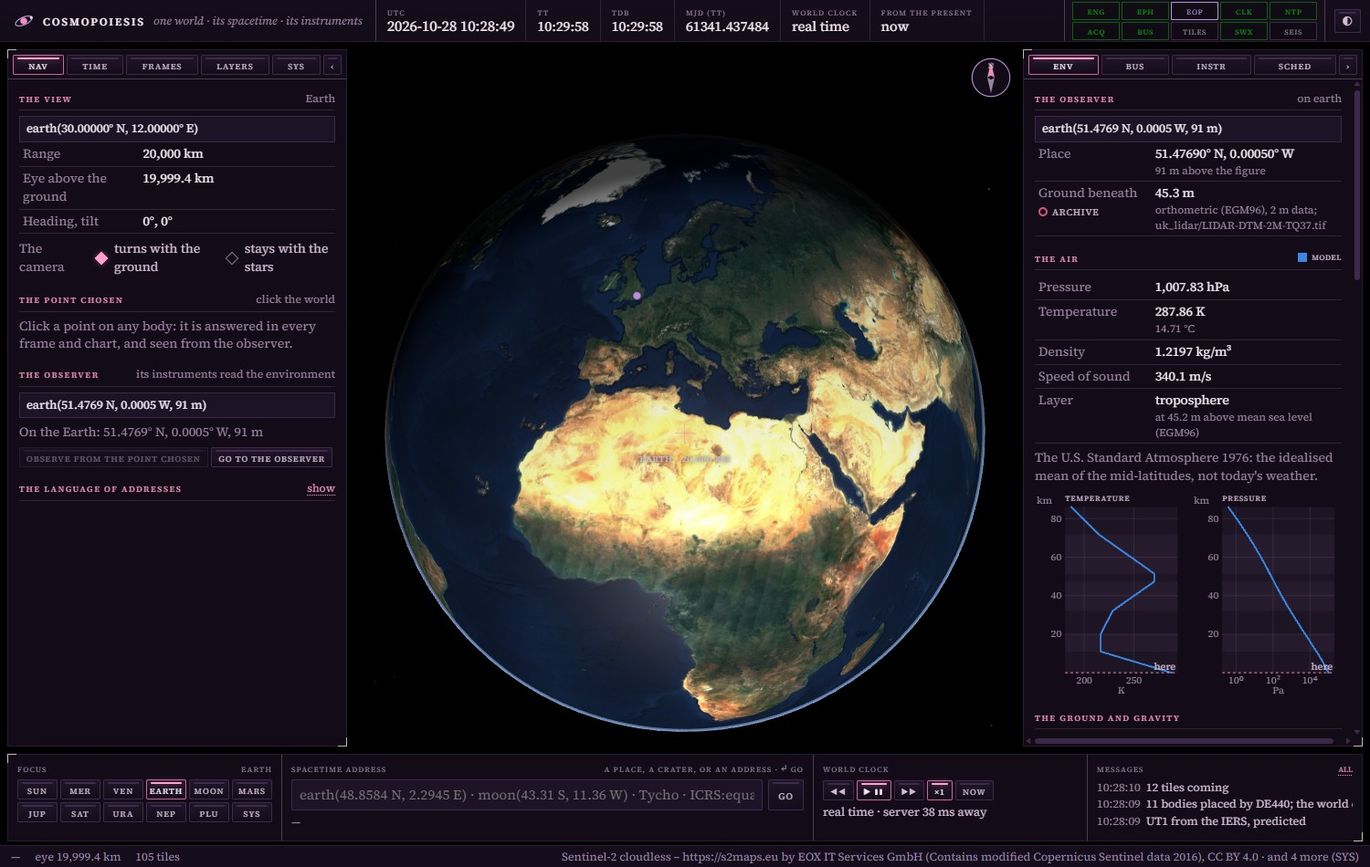
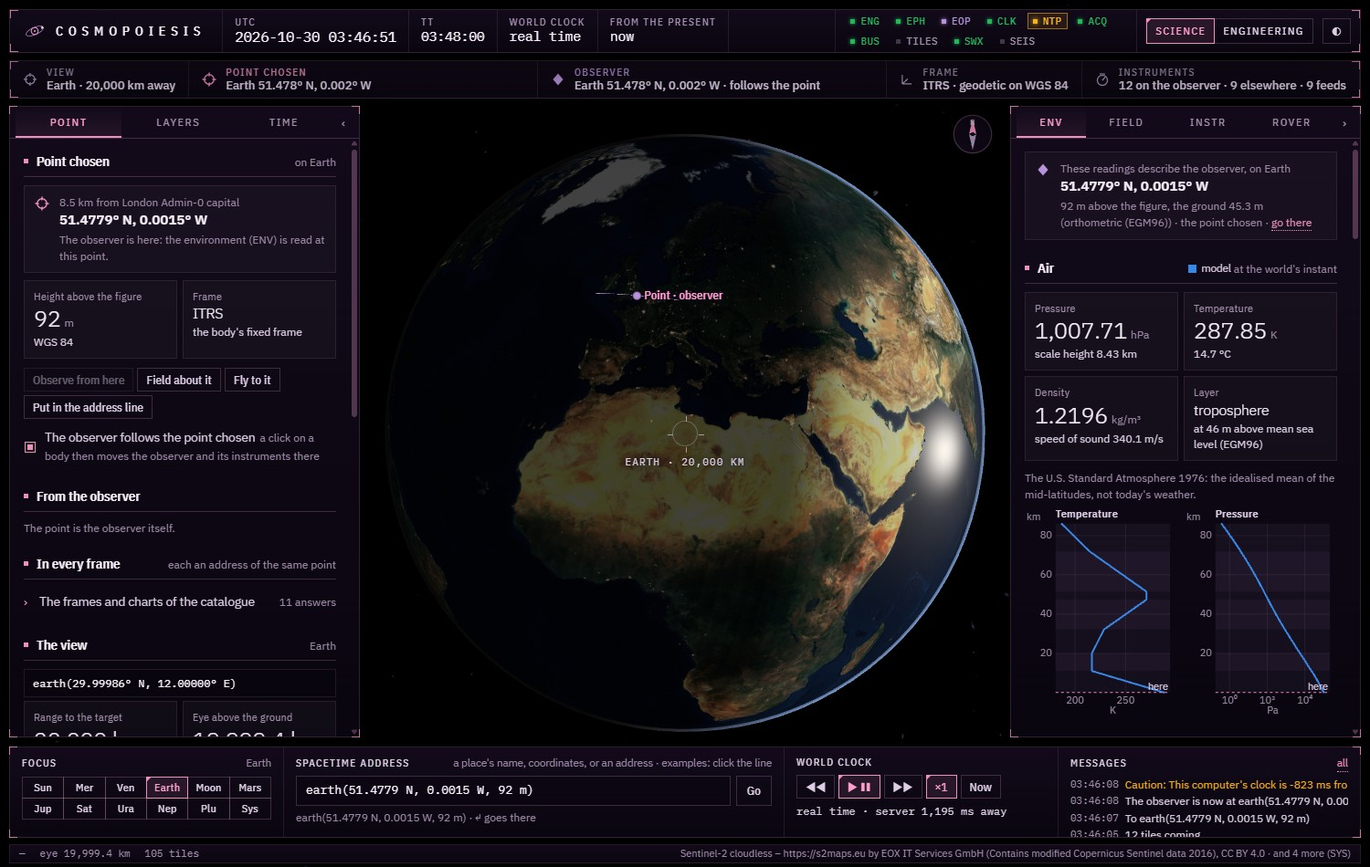
Cosmopoiesis in the gallery, and a flight to where one already looks
The gallery's Cosmopoiesis section in four parts, twenty-two pictures on the precision console: one world, its addresses and its instruments; fields drawn in the world and read about a point (the Earth's field lines, the Moon's crust and its radial part, the air over Fuji, the interior beneath Sendai); the ground, the sea and what lies beneath (the provenance of the Moon's heights at Hadley Rille, the sea floor off Japan, the sea's temperature, the Earth beneath Japan and the Andes); satellites and the rover's survey. The globe's controls: a flight's arc as atan2 of the cross and dot products, so that a flight to the point in view no longer gives a NaN camera; checked in the visualization suite.

diff --git a/visualization/js/globe/controls.js b/visualization/js/globe/controls.js
@@ -121,8 +121,15 @@ export class GlobeControls {
     const to = { ...from, ...target };
     const a = cartesian(this.fig, from.lon, from.lat, 0), b = cartesian(this.fig, to.lon, to.lat, 0);
     const ua = unit(a), ub = unit(b);
-    const angle = Math.acos(clamp(ua[0] * ub[0] + ua[1] * ub[1] + ua[2] * ub[2], -1, 1));
-    const axis = angle > 1e-9 ? unit([ua[1] * ub[2] - ua[2] * ub[1], ua[2] * ub[0] - ua[0] * ub[2], ua[0] * ub[1] - ua[1] * ub[0]]) : [0, 0, 1];
+    // The arc between them as atan2(|a × b|, a · b), exact for small arcs; a flight to where one is
+    // already looking has no axis (acos of a rounded dot product gave an arc of 1.5e-8 rad about the
+    // normalised zero cross product: a NaN camera).
+    const c = [ua[1] * ub[2] - ua[2] * ub[1], ua[2] * ub[0] - ua[0] * ub[2], ua[0] * ub[1] - ua[1] * ub[0]];
+    const sinAngle = Math.hypot(c[0], c[1], c[2]), cosAngle = ua[0] * ub[0] + ua[1] * ub[1] + ua[2] * ub[2];
+    const angle = Math.atan2(sinAngle, cosAngle);
+    const axis = sinAngle > 1e-15 ? unit(c)
+      : cosAngle < 0 ? unit(Math.abs(ua[2]) < 0.9 ? [-ua[1], ua[0], 0] : [0, -ua[2], ua[1]])   // antipodes: any axis across
+        : [0, 0, 1];
     // Rise by the ground covered, so that the flight sees where it goes.
     const peak = Math.max(from.range, to.range, angle * this.fig.a * 1.1);
     let dh = to.heading - from.heading;

diff --git a/docs/gallery.md b/docs/gallery.md
@@ -2,7 +2,7 @@
 
 *Status: draft, 2026-10-28.*
 
-These are screenshots of the infrastructure's applications, the three atlases taken on 22 October 2026 from their local servers with the data of that day, the Spiking Simulator and the Complex Atlas on 23 October, the History Complex, the Genome Workbench and the Economy Atlas on 24 October, and Cosmopoiesis on 28 and 30 October.
+These are screenshots of the infrastructure's applications, the three atlases taken on 22 October 2026 from their local servers with the data of that day, the Spiking Simulator and the Complex Atlas on 23 October, the History Complex, the Genome Workbench and the Economy Atlas on 24 October, and Cosmopoiesis on 30 October.
 
 - All are web applications without a build step.
 - Their science is the provisional JavaScript of the domains they draw on, tested against published references and closed-form answers in 422 checks, and the C++ of the foundations and of the metrology, geodesy, astronomy, geophysics, meteorology, navigation, neuroscience, history, genomics, evolution and economics domains, checked the same way.
@@ -466,16 +466,20 @@ Value carried between places and through time, through the application's C++ eng
 
 ## 9. Cosmopoiesis
 
-The Solar System as one world, with its addresses, its instruments and its fields. It runs through the work's C++ engine on the domains of time, the Earth and the sky, planetary science, robotics and the solid Earth, and on physis, tyche and calx ([ADR 0049](../development/decisions/0049-the-spacetime-of-the-earth-and-the-moon.md), [ADR 0050](../development/decisions/0050-instruments-and-their-acquisition.md), [ADR 0052](../development/decisions/0052-fields-known-in-part.md) to [ADR 0055](../development/decisions/0055-the-earth-beneath.md); the work's [decisions 0002–0010](../applications/cosmopoiesis-lab/development/decisions/) and [formalism](../applications/cosmopoiesis-lab/docs/formalism.md)). Its console is in pink and purple, drawn as a precision instrument (its decision 0009), by night and by day.
+The Solar System as one world, with its addresses, its instruments, its fields and what lies beneath its ground and its seas. It runs through the work's C++ engine on the domains of time, the Earth and the sky, planetary science, robotics and the solid Earth, and on physis, tyche and calx ([ADR 0049](../development/decisions/0049-the-spacetime-of-the-earth-and-the-moon.md), [ADR 0050](../development/decisions/0050-instruments-and-their-acquisition.md), [ADR 0052](../development/decisions/0052-fields-known-in-part.md) to [ADR 0055](../development/decisions/0055-the-earth-beneath.md); the work's [decisions 0002–0010](../applications/cosmopoiesis-lab/development/decisions/) and [formalism](../applications/cosmopoiesis-lab/docs/formalism.md)). Its console is in pink and purple, drawn as a precision instrument (its decision 0009), by night and by day.
 
 - The bodies are placed and turned by JPL's DE440, the IAU's rotation models, IAU 2006/2000A and the IERS's Earth orientation; the satellites by SGP4 on CelesTrak's elements.
-- The instant is the present. The first two pictures were taken on 28 October 2026, between 10:28 and 10:30 UTC, before the console was redrawn; the others on 30 October, between 00:32 and 02:00 UTC, on the precision console. The readings of space weather are SWPC's of that hour, observed, and the others are the engine's models; each is marked by its provenance.
+- The instant is the present, 30 October 2026, between 00:32 and 04:42 UTC. The readings of space weather are SWPC's of that hour, observed, and the others are the engine's models; each is marked by its provenance.
 - Every number in the captions is the engine's own, or a feed's.
+
+### 9.1 One World, Its Addresses and Its Instruments
+
+The world at the present from Greenwich to Saturn, any point written in one line and answered in every frame, and the machinery beneath: the catalogue of frames, and the schedule of the instruments.
 
 <table>
 <tr>
-<td width="50%" valign="top"><a href="../assets/gallery/cosmo-01-earth-console.jpg"><img src="../assets/gallery/cosmo-01-earth-console.jpg" alt="The console over the Earth by night: clocks and lamps across the top, the view and the observer on the left, the observer's environment on the right"></a><br><b>The console over the Earth, by night</b>. Across the top run the clocks (UTC, TT, TDB, MJD, the world clock's rate, its distance from the present) and the lamps of the engine, the ephemeris, Earth orientation, the clock, NTP, acquisition, the bus, the tiles, space weather and seismicity, each lit in one of four states with a word. On the left, the view is 20,000 km above 30° N, 12° E, and the observer is at Greenwich, 91 m above WGS 84. On the right, the ground beneath it lies 45.3 m above mean sea level, from the UK's 2 m LIDAR (an archive's reading, the hollow mark). The air there is the 1976 standard atmosphere's at 45.2 m above the geoid: 1,007.83 hPa, 287.86 K, 1.2197 kg/m³, sound at 340.1 m/s, with the profiles of temperature and pressure to 86 km and the observer's height marked.</td>
-<td width="50%" valign="top"><a href="../assets/gallery/cosmo-02-time-and-environment.jpg"><img src="../assets/gallery/cosmo-02-time-and-environment.jpg" alt="The instant in eight time scales on the left; the sky above Greenwich with the GPS and Galileo satellites, and space weather, on the right"></a><br><b>The instant and the sky</b>. The instant is 10:29:03.414 UTC in eight scales. UT1 is 52.1 ms behind (the IERS's Bulletin A, predicted), TT 69.184 s ahead, TDB 1.509 ms behind TT, and ΔT is 69.2361 s. Above Greenwich the Sun stands at 23.31°, azimuth 160.14°, its disc wholly seen: 1,378.6 W/m² across its beam and 545.6 W/m² on the level, above the air, at 0.993586 au. With it are Venus, Mars, Jupiter and the GPS and Galileo satellites above the horizon. Beneath is space weather as observed (rose), each reading on a gauge with its scale's thresholds: the solar wind at L1 at 381 km/s and 4.4 cm⁻³ and the interplanetary field's B<sub>z</sub> +5.14 nT of |B| 6.92 nT, nine minutes before, and the planetary K index 2.33, quiet, of four and a half hours before.</td>
+<td width="50%" valign="top"><a href="../assets/gallery/cosmo-01-earth-console.jpg"><img src="../assets/gallery/cosmo-01-earth-console.jpg" alt="The console over the Earth by night, dawn reaching Arabia: clocks and lamps across the top, the context bar beneath, the point chosen on the left and the observer's air on the right"></a><br><b>The console over the Earth, by night</b>. Across the top run the clocks and the engine's lamps. NTP's lamp is amber: this computer's clock is 0.8 s behind UTC, and the console says so. Beneath them, the context bar keeps five things apart: what is looked at, the Earth from 20,000 km; the point chosen; the observer, which follows it; the frame; and where the instruments are mounted, 12 on the observer and 9 elsewhere, with 9 feeds. The point is Greenwich, 92 m above WGS 84, 8.5 km from London. The observer stands there on the ground, which is 45.3 m above mean sea level by the UK's 2 m LIDAR (an archive's reading, the hollow mark). Its air is the 1976 standard atmosphere's at 46 m above the geoid: 1,007.71 hPa, 287.85 K, 1.2196 kg/m³, and sound at 340.1 m/s. The profiles of temperature and pressure run to 86 km, the observer's height marked. Dawn is reaching Arabia.</td>
+<td width="50%" valign="top"><a href="../assets/gallery/cosmo-02-time-and-environment.jpg"><img src="../assets/gallery/cosmo-02-time-and-environment.jpg" alt="The instant in eight time scales on the left; the Sun below the horizon at Greenwich, the sky with the Moon, Mars, Saturn and the navigation satellites, and space weather, on the right"></a><br><b>The instant and the sky</b>. The instant is 03:47:03.890 UTC, in eight scales. UT1 is 53.3 ms behind (the IERS's Bulletin A, predicted). TAI is 37 s ahead, TT a further 32.184 s, and TDB 1.490 ms behind TT. The coordinate times TCG and TCB have run ahead of TT since 1977, by 1.1 s and 24.4 s. At Greenwich the Sun is 28.74° below the horizon, at azimuth 75.33°, and 0.993175 au away. Above the horizon are the Moon, Mars, Saturn and the GPS and Galileo satellites. Beneath is space weather as observed: the solar wind at L1 at 316 km/s with 2.1 cm⁻³.</td>
 </tr>
 <tr>
 <td width="50%" valign="top"><a href="../assets/gallery/cosmo-03-solar-system.jpg"><img src="../assets/gallery/cosmo-03-solar-system.jpg" alt="The Solar System 110 au across with the orbits of the planets and Pluto, the catalogue of frames on the left and the bus of readings on the right, on the engineering deck"></a><br><b>The Solar System, 110 au across</b>, on the engineering deck. Each orbit is one period of the body's own path in DE440. On the left is the catalogue of frames as one tree from the ICRS: the Earth's chain to the ITRS and TEME, the Moon's frames, each planet's centre and IAU frame. On the right is the bus, every stream of readings with its provenance and its age. The planetary K index is 0.67, quiet, three and a half hours old. The solar wind at L1 blows at 323 km/s with 1.3 cm⁻³, eight minutes old. GOES's X-rays are of class B2.5. Beneath them is an event that did not wait for a tick: an earthquake of magnitude 4.4 near Tambolaka, Indonesia, from the USGS.</td>
@@ -489,13 +493,52 @@ The Solar System as one world, with its addresses, its instruments and its field
 <td width="50%" valign="top"><a href="../assets/gallery/cosmo-07-address-from-fuji.jpg"><img src="../assets/gallery/cosmo-07-address-from-fuji.jpg" alt="An address stepped from the summit of Fuji, answered in geodetic, UTM, MGRS and celestial frames, the camera looking back at the mountain"></a><br><b>An address with a step</b>: <code>earth(35.3606 N, 138.7274 E, 3776 m)/aer(30°, 2°, 30 km)</code>, a point 30 km from the summit of Fuji at azimuth 30°, 2° up. The engine resolves it to 35.59433° N, 138.89269° E, 4,893.6 m above WGS 84. In UTM it is zone 54 N, 309,091.53 m east and 3,940,999.53 m north, and in MGRS 54SUE0909140999. It is answered in the GCRS, TEME and the ICRS too. The camera stands 48 km away and looks back south-west at the mountain, on Sentinel-2 cloudless and Terrarium's heights. The observer follows the point. Its air is the standard atmosphere's at 4,852 m above mean sea level: 551.22 hPa and 256.63 K. The ground beneath it lies 530.8 m above mean sea level.</td>
 <td width="50%" valign="top"><a href="../assets/gallery/cosmo-08-loops-and-schedule.jpg"><img src="../assets/gallery/cosmo-08-loops-and-schedule.jpg" alt="The catalogue's loops and their holonomies on the left; a simulation of each scheduling policy with a burst of events on the right"></a><br><b>The catalogue's loops, and the schedule</b>. A loop is two routes between two frames, and its holonomy is the motion once round it. It is the same whatever realisation of each frame is chosen. The CIO and equinox routes to the ITRS agree to 0.3235 mas. GMST 1982 departs from IAU 2006 by 59.7556 mas in TEME. The IAU's model of the Moon and DE440's frame differ by 10,972.3 mas (11.0″). On the right, the declared set is simulated with a burst of 200 events of 2 ms, released together and due within 50 ms. Its periodic load is 8.83% of one worker, feasible by EDF. With the burst, EDF leaves 130 of 238 jobs late, fixed priority 103, and fixed priority with aging, or plain order, 200. Four workers can do only 200 ms of work in 50 ms, so at least 100 of the burst's jobs are late under any policy. This is what a storm of events does without the server that holds it to 2 s in every 10.</td>
 </tr>
+</table>
+
+### 9.2 Fields, Drawn in the World and Read about a Point
+
+Every model of the world is a field by name, with its base and its provenance ([ADR 0053](../development/decisions/0053-fields-and-their-visual-expression.md)): drawn in the world as lines or maps, and read by any instrument over a cube about a point.
+
+<table>
 <tr>
-<td width="50%" valign="top"><a href="../assets/gallery/cosmo-09-satellites.jpg"><img src="../assets/gallery/cosmo-09-satellites.jpg" alt="The space stations, GPS and Galileo around the Earth 62,000 km out, with the readings of instruments mounted on the ISS"></a><br><b>Satellites</b>: the space stations, GPS and Galileo by SGP4, seen from 62,000 km over the day side of Asia and Australia. The stations are named beside their points. GPS's satellites, in orange, and Galileo's, in green, circle at some 20,000 and 23,000 km. On the left are the groups: 32 for Galileo, 32 for GPS and 16 for the stations, their elements fetched 45 hours before. On the right are the instruments mounted on the ISS itself, a family placed on a satellite by its NORAD number. The ISS is over 35.63° N, 86.04° E, 426.5 km up, in full sunlight (1,379.7 W/m²). Its magnetometer on WMM2025 reads 42,971 nT: 24,694 nT north, 414 nT east and 35,164 nT down.</td>
 <td width="50%" valign="top"><a href="../assets/gallery/cosmo-10-field-lines.jpg"><img src="../assets/gallery/cosmo-10-field-lines.jpg" alt="The Earth's magnetic field lines 110,000 km out, coloured by the field's strength, with the world's catalogue of fields on the left and the observer's magnetometer on the right"></a><br><b>The Earth's field lines</b> (decision 0007). There are 48 lines of the core's field, WMM2025 continued outward. Each is traced by RK4 from 100 km above the model's sphere, at ±30°, ±50° and ±65° of latitude, to the ground or to six Earth radii, and coloured by |B| on a logarithmic scale from 0.2 to 50 μT. The field is one of the world's fields, each with its base and provenance; on the left is their catalogue, each with its fibre, its representation and its base. On the right, the observer's magnetometer reads the same model where the observer stands, 4,894 m up near Fuji. |B| is 46,950 nT, changing by 31.1 nT a year: 30,134 nT north, −4,244 nT east and 35,752 nT down. The declination is −8.02° (± 0.32°, the model's error), and the inclination 49.6°. A compass there is reliable.</td>
+<td width="50%" valign="top"><a href="../assets/gallery/cosmo-11-moon-field.jpg"><img src="../assets/gallery/cosmo-11-moon-field.jpg" alt="The Moon's near side 6,500 km out with its crustal magnetic field in amber, the legend on the left and the magnetometer at Reiner Gamma on the right"></a><br><b>The Moon's crustal field</b> (decision 0005, <a href="../development/decisions/0052-fields-known-in-part.md">ADR 0052</a>). T2015_449's |B| at the surface is laid over the near side, from 1 to 100 nT on a logarithmic scale and clear below 1 nT, its magnetised crust in amber. The legend gives the law of the crust's spectrum, R<sub>n</sub> ∝ n<sup>2.04</sup> ρ<sup>2n</sup>, an effective depth of its sources of 6.6 km. The scales the model leaves unresolved are drawn from that law. The observer stands at Reiner Gamma, the brightest of the swirls. Its magnetometer reads 64.08 nT there: the crust's 65.43 nT and the solar wind's 2.59 nT, added as vectors. The solar wind's field was measured at L1 92 minutes before and carried to the Moon. The components are −47.3 nT north, −18.5 nT east and −39 nT down.</td>
 </tr>
 <tr>
-<td width="50%" valign="top"><a href="../assets/gallery/cosmo-11-moon-field.jpg"><img src="../assets/gallery/cosmo-11-moon-field.jpg" alt="The Moon's near side 6,500 km out with its crustal magnetic field in amber, the legend on the left and the magnetometer at Reiner Gamma on the right"></a><br><b>The Moon's crustal field</b> (decision 0005, <a href="../development/decisions/0052-fields-known-in-part.md">ADR 0052</a>). T2015_449's |B| at the surface is laid over the near side, from 1 to 100 nT on a logarithmic scale and clear below 1 nT, its magnetised crust in amber. The legend gives the law of the crust's spectrum, R<sub>n</sub> ∝ n<sup>2.04</sup> ρ<sup>2n</sup>, an effective depth of its sources of 6.6 km. The scales the model leaves unresolved are drawn from that law. The observer stands at Reiner Gamma, the brightest of the swirls. Its magnetometer reads 64.08 nT there: the crust's 65.43 nT and the solar wind's 2.59 nT, added as vectors. The solar wind's field was measured at L1 92 minutes before and carried to the Moon. The components are −47.3 nT north, −18.5 nT east and −39 nT down.</td>
+<td width="50%" valign="top"><a href="../assets/gallery/cosmo-15-moon-radial.jpg"><img src="../assets/gallery/cosmo-15-moon-radial.jpg" alt="The radial part of the Moon's crustal field around Reiner Gamma from 1,600 km, outward in amber and inward in violet, with the magnetometer's reading on the right"></a><br><b>The Moon's field, outward and inward</b> (decision 0005). The radial part B<sub>r</sub> of T2015_449 at the surface around Reiner Gamma, seen from 1,600 km, on a half-degree grid. The scale diverges about zero: amber where the field points outward, violet where it points inward. It is logarithmic in its size from 1 nT each way, to 100 nT. The crust's sources are patches of both signs, the remanence of fields long gone. At Reiner Gamma the magnetometer reads 69.24 nT. The crust gives 65.43 nT of it, and the solar wind's field, measured at L1 92 minutes before and carried to the Moon, gives 4.55 nT. Its down component is −40.8 nT: there the field points up, out of the ground.</td>
 <td width="50%" valign="top"><a href="../assets/gallery/cosmo-12-field-cube.jpg"><img src="../assets/gallery/cosmo-12-field-cube.jpg" alt="A cube of 100 km above Reiner Gamma filled with the magnetic field's strength, placed in the world and drawn in the FIELD page"></a><br><b>The field about a point</b> (decision 0006). The same magnetometer is read over a cube of 100 km above Reiner Gamma, in 13³ = 2,197 cells, and the cube is placed in the world. Each cell is a reading of T2015_449, with its unresolved part drawn from its law and the solar wind's field added. Colour is |B| on a logarithmic scale up to 232 nT, strongest near the ground. At the cube's centre, 50 km up, |B| is 3.59 nT. The linear fit over the cube gives a gradient of 0.42 nT/km, nearly all of it upward (−0.39 nT/km): the field falls off with height. The engine reads the cube in 2.8 s, in a process of its own, so the acquisition never waits for it.</td>
+</tr>
+<tr>
+<td width="50%" valign="top"><a href="../assets/gallery/cosmo-14-air-over-fuji.jpg"><img src="../assets/gallery/cosmo-14-air-over-fuji.jpg" alt="A cube of air 10 km on a side standing on the summit of Fuji, filled with the standard atmosphere's density, in the world and in the FIELD page"></a><br><b>The air over Fuji</b>, a field about a point. The barometer is read over a cube 10 km on a side, standing on Fuji's summit (3,776 m) and reaching to 13,776 m above WGS 84, in 13³ cells. Each cell's colour is the density of the 1976 standard atmosphere, which falls with height, from cream near the summit to plum above. At the cube's centre, 8,776 m up, the density is 0.4821 kg/m³. The cube is drawn twice: in the FIELD page, where it can be turned and read cell by cell, and in the world, standing on the mountain, the camera 62 km away.</td>
+<td width="50%" valign="top"><a href="../assets/gallery/cosmo-16-interior-cube.jpg"><img src="../assets/gallery/cosmo-16-interior-cube.jpg" alt="A cube 100 km on a side beneath the sea east of Sendai, filled with the speed of P waves: the slow crust above, the fast mantle below"></a><br><b>The Earth's interior as a field</b> (decision 0010, <a href="../development/decisions/0055-the-earth-beneath.md">ADR 0055</a>). The speed of P waves, <code>earth.interior.vp</code> (CRUST1.0 over PREM), is read over a cube 100 km on a side, centred 45 km beneath the sea east of Sendai. The address is <code>earth(38.3 N, 142.0 E, -45 km)</code>, and the observer stands there, in the mantle. The crust is slow (violet, from 5,800 m/s), and the mantle beneath its Moho is fast (cream, to 8,112 m/s). At the centre the speed is 8,097.9 m/s. Of 2,197 cells, 2,028 are read. The top layer, 169 cells, lies above the sea and is refused, for the field's base is the Earth beneath its ground and its seas. The surface, where it crosses the cube, is drawn in amber.</td>
+</tr>
+</table>
+
+### 9.3 The Ground, the Sea and What Lies Beneath
+
+The terrain says where each of its heights comes from; the sea can be taken away to show its floor, or coloured by its temperature; and ENV looks beneath the observer to the centre of the Earth ([ADR 0055](../development/decisions/0055-the-earth-beneath.md)).
+
+<table>
+<tr>
+<td width="50%" valign="top"><a href="../assets/gallery/cosmo-18-terrain-provenance.jpg"><img src="../assets/gallery/cosmo-18-terrain-provenance.jpg" alt="The Moon's ground near Hadley Rille coloured by where its heights come from: synthetic detail near, interpolated heights beyond, and LOLA's tracks with the gaps between them filled by its makers in the distance"></a><br><b>Where the heights come from</b>, near Hadley Rille on the Moon, seen from 55 km toward the Montes Apenninus. LOLA's grid there is 237 m, and every sample of the terrain says what it is. In the distance the heights are LOLA's own, in stripes: the laser's ground tracks, measured and left untinted, and between them the samples its makers filled (amber). Nearer, the tiles are finer than the data and interpolated here (blue). Nearest, they carry synthetic detail below the data's resolution (violet), labelled so and never taken for measurement. On the right, the observer's ground lies 1,923.5 m below the Moon's sphere of 1,737.4 km.</td>
+<td width="50%" valign="top"><a href="../assets/gallery/cosmo-17-sea-floor.jpg"><img src="../assets/gallery/cosmo-17-sea-floor.jpg" alt="The floor of the Pacific off Japan with the water taken away, heights five times exaggerated, Honshu above; on the right the section's surface view across the Japan Trench"></a><br><b>The sea floor, the water taken away</b>. Off Japan, seen obliquely from 600 km, with heights five times exaggerated. The terrain tiles' second layer is the solid surface beneath the sea, and LAYERS can draw it instead of the sea's surface. Honshu stands above, and the Pacific floor runs down to the Japan Trench, with seamounts on the plate as it comes toward it. The orchid line is the trace of the section through the observer, who is 50 m above the sea at 38.3° N, 143.6° E. On the right is that section's surface view: the land, the sea and its floor, from the Sea of Japan across Honshu to the trench and the Pacific.</td>
+</tr>
+<tr>
+<td width="50%" valign="top"><a href="../assets/gallery/cosmo-22-sea-temperature.jpg"><img src="../assets/gallery/cosmo-22-sea-temperature.jpg" alt="The temperature of the sea around Japan from GHRSST, the warm Kuroshio along the south coast and cold water to the north-east"></a><br><b>The sea's temperature</b> around Japan, from 4,500 km, in GHRSST's MUR analysis at 1 km: the latest day NASA's GIBS serves, in its own colours, from blue (cold) to red (warm). The Kuroshio carries warm water north-east along Japan's south coast and turns out into the Pacific. Cold water of the Oyashio lies off Hokkaido and Tohoku, and the Sea of Japan grades from warm in the south to cold in the north. On the right, beneath the observer east of the Bōsō peninsula: oceanic crust 10.9 km thick under 6.11 km of water, its Moho 17 km below sea level.</td>
+<td width="50%" valign="top"><a href="../assets/gallery/cosmo-19-beneath-japan.jpg"><img src="../assets/gallery/cosmo-19-beneath-japan.jpg" alt="Japan by night from 2,600 km with the section's trace; on the right the seismic column beneath the observer and a section of the crust with the earthquakes of the sinking plate"></a><br><b>Beneath the Japan Trench</b> (decision 0010). The observer is 50 m above the sea at 38.3° N, 143.0° E, and the section runs west to east through it for 1,500 km, its trace on the world. The seismic column beneath it is CRUST1.0's cell of 1°. There are 3.68 km of water, 0.4 km of sediments, and 18.8 km of crust, of mean density 2.93 g/cm³, to a Moho 22.5 km below sea level. Beneath the Moho, P waves run at 7.7 km/s and S waves at 4.29 km/s. A P wave rises through the crust in 2.99 s. The section's crust view shows the layers, constant in their cells and cut by the sea floor. Global CMT's centroids since 1976 lie within 75 km of the line: 377 of them, 112 below this view. They fall steeply beneath the trench, where the Pacific plate sinks.</td>
+</tr>
+<tr>
+<td width="50%" valign="top"><a href="../assets/gallery/cosmo-20-beneath-mantle.jpg"><img src="../assets/gallery/cosmo-20-beneath-mantle.jpg" alt="The section through Japan to 800 km at true scale in a window of its own, the earthquakes tracing the sinking plate; on the right the speeds and density to the centre of the Earth"></a><br><b>The mantle at true scale</b>, the same section taken out into a window of its own (decision 0009), to 800 km, the Earth's curvature drawn. Rock is coloured by its density, and PREM's discontinuities at 220, 400 and 670 km are dashed. The earthquakes trace the Pacific plate. It sinks from the trench westward beneath Japan, and its deepest events here lie nearly 400 km down, some 500 km west of the trench. On the right is the column beneath the observer to the centre: the speeds of P and S waves and the density against depth, the Earth's regions banded. S waves stop at the liquid outer core.</td>
+<td width="50%" valign="top"><a href="../assets/gallery/cosmo-21-beneath-andes.jpg"><img src="../assets/gallery/cosmo-21-beneath-andes.jpg" alt="A section across the Andes at 22° S by day, from the trench beneath the sea to the Altiplano, the crust thickening toward the east and the earthquakes of the Nazca plate dipping beneath the continent"></a><br><b>Beneath the Andes, by day</b>. The observer stands on the Atacama's ground at 22.0° S, 69.6° W, 1,700 m above WGS 84. The section runs west to east for 1,500 km, depths nine times exaggerated, and is taken out into its own window. From the west it crosses the sea and the Peru–Chile trench, then the coast. The crust thickens eastward under the Altiplano, its Moho nearly 70 km down, then thins again toward the plains. The earthquakes of the Nazca plate dip eastward beneath the continent. In the observer's own cell the crust is 35 km thick, the Moho 33.3 km below sea level. P waves run at 8.24 km/s beneath it and take 5.63 s to rise through it.</td>
+</tr>
+</table>
+
+### 9.4 Bodies That Move: Satellites, and a Rover That Learns
+
+<table>
+<tr>
+<td width="50%" valign="top"><a href="../assets/gallery/cosmo-09-satellites.jpg"><img src="../assets/gallery/cosmo-09-satellites.jpg" alt="The space stations, GPS and Galileo around the Earth 62,000 km out, with the readings of instruments mounted on the ISS"></a><br><b>Satellites</b>: the space stations, GPS and Galileo by SGP4, seen from 62,000 km over the day side of Asia and Australia. The stations are named beside their points. GPS's satellites, in orange, and Galileo's, in green, circle at some 20,000 and 23,000 km. On the left are the groups: 32 for Galileo, 32 for GPS and 16 for the stations, their elements fetched 45 hours before. On the right are the instruments mounted on the ISS itself, a family placed on a satellite by its NORAD number. The ISS is over 35.63° N, 86.04° E, 426.5 km up, in full sunlight (1,379.7 W/m²). Its magnetometer on WMM2025 reads 42,971 nT: 24,694 nT north, 414 nT east and 35,164 nT down.</td>
+<td width="50%" valign="top"><a href="../assets/gallery/cosmo-13-rover.jpg"><img src="../assets/gallery/cosmo-13-rover.jpg" alt="The rover's survey of Reiner Gamma complete: the mission's map of its uncertainty in a window, and the readings along the track beside T2015_449"></a><br><b>A rover that learns</b> (decision 0008, <a href="../development/decisions/0054-bodies-dynamics-and-knowledge.md">ADR 0054</a>). A rover, a body of its own apart from the observer, surveys Reiner Gamma. It is kinematic and drives in lines, 4,486 m in 6 h 14 min of mission time, through 12 waypoints and 449 readings. Its magnetometer, on a 1.5 m mast, reads a hidden truth: T2015_449, plus a realisation (seed 1) of the part the model leaves unresolved, to degree 1440. Its readings run some 3 to 5 nT above T2015_449 (on the right). The mission's map, taken out into a window, shows its uncertainty after the survey: 0.02 nT along the track, 0.21 nT where it did not drive. Before any reading it was 9.5 nT. Its 1,347 observations' innovations have a mean square of 1.054, inside the band of 0.924 to 1.076 for knowledge that is calibrated.</td>
 </tr>
 </table>
 
@@ -554,6 +597,8 @@ The screenshots are the infrastructure's, under its MIT licence, except the thre
 | Imagery of the Earth, cloudless | Sentinel-2 cloudless 2016 (EOX IT Services GmbH) | CC BY 4.0; contains modified Copernicus Sentinel data 2016 |
 | Names of the Moon's features | IAU WGPSN and USGS Astrogeology (the Gazetteer of Planetary Nomenclature) | Public domain |
 | The geomagnetic field | WMM2025 (NOAA NCEI and the British Geological Survey) | Public domain (US Government material, 17 U.S.C. 403) |
+| The sea's temperature | GHRSST Level 4 MUR (NASA JPL, PO.DAAC), via NASA GIBS | NASA, acknowledge |
+| The Earth's interior | PREM (Dziewonski and Anderson 1981), beneath CRUST1.0 | Published model; cited |
 | The Moon's crustal field | T2015_449 (Wieczorek 2018, Zenodo 10.5281/zenodo.3873648), from the surface vector mapping of Tsunakawa et al. (2015) | CC BY 4.0 |
 | Space weather | NOAA SWPC: the real-time solar wind (DSCOVR, ACE), the planetary K index, GOES's X-rays and protons | Public domain; SWPC credited |
 
@@ -582,4 +627,4 @@ The Genome Workbench's pictures, at 1500 × 950 pixels, were taken the same way,
 
 The Economy Atlas's pictures, at 1500 × 950 pixels, were taken the same way from links that open a view and what it shows, for example `http://127.0.0.1:8910/#map&year=2024&economy=USA`, `#map&year=2010&arcs=driven`, `#spacetime&from=2015-01&to=2026-06&currency=MXN`, `#production&table=three` and `#circuits&network=five`: `year`, `arcs` (`all`, `driven`, `circulating` or `none`), `shown`, `faces`, `labels`, `flowing`, `economy` (a place's id, ISO alpha-3 for the library's) and `dataset` for the map; `from`, `to`, `currency` and `dataset` for spacetime; `table` and `network` for the examples. The two pictures by night were taken after the day-and-night button; the gravity equation's after its run from its card, and the towns' after adding `examples/towns-places.csv` and `examples/towns-flows.csv` with the title "Towns of the North Sea (invented)", whose content gives the dataset its id, `#map&dataset=8587152f0c26514c`.
 
-Cosmopoiesis's pictures, at 1500 × 950 pixels, were taken the same way, from a fresh profile, by driving the console: its focus keys, its decks and pages, the theme, the layers and the figures' keys, and addresses typed into its address unit (`moon(43.31 S, 11.36 W)`, the step from Fuji above, and `moon(7.5 N, 59.0 W)` for Reiner Gamma). The rover surveyed by lines, kinematic, with the truth's seed 1. The page keeps the view of its body in focus in the address, `http://127.0.0.1:8930/#earth/30.00000/12.00000/20000000/0.0/0.0` (the body, the latitude and longitude in degrees, the range in metres, the heading and the tilt), and the satellites' groups are chosen in LAYERS. Its instant is the present, so the sky, the readings and the counters differ each time the pictures are taken.
+Cosmopoiesis's pictures, at 1500 × 950 pixels, were taken the same way, from a fresh profile, by driving the console from scripts of steps: its focus keys, its decks and pages, the theme, the layers, the figures' keys and their windows, and addresses typed into its address unit (`earth(51.4779 N, 0.0015 W, 92 m)`, `moon(43.31 S, 11.36 W)`, the step from Fuji above, `moon(7.5 N, 59.0 W)` for Reiner Gamma, `moon(26.13 N, 3.63 E)` for Hadley Rille, and points beneath the sea and the Andes). They were taken from a server of their own (`serve.py --port 8932`), whose acquisition is apart from that of a session in use. The page keeps the view of its body in focus in the address, `http://127.0.0.1:8930/#earth/30.00000/12.00000/20000000/0.0/0.0` (the body, the latitude and longitude in degrees, the range in metres, the heading and the tilt). The rover surveyed by lines, kinematic, with the truth's seed 1. Its instant is the present, so the sky, the readings and the counters differ each time the pictures are taken.

diff --git a/README.md b/README.md
@@ -73,15 +73,15 @@ An integrative infrastructure for learning, using and researching all domains of
 
 <p align="center">
 <a href="docs/gallery.md"><img src="assets/gallery/cosmo-10-field-lines.jpg" width="32%" alt="The Earth's magnetic field lines coloured by the field's strength, beside the world's catalogue of fields, in Cosmopoiesis"></a>
-<a href="docs/gallery.md"><img src="assets/gallery/cosmo-11-moon-field.jpg" width="32%" alt="The Moon's crustal magnetic field over its near side, with the magnetometer at Reiner Gamma, in Cosmopoiesis"></a>
-<a href="docs/gallery.md"><img src="assets/gallery/cosmo-12-field-cube.jpg" width="32%" alt="A cube above Reiner Gamma filled with the magnetic field's strength, placed in the world, in Cosmopoiesis"></a>
+<a href="docs/gallery.md"><img src="assets/gallery/cosmo-20-beneath-mantle.jpg" width="32%" alt="A section through Japan to 800 km at true scale, the earthquakes tracing the sinking plate, beside the speeds and density to the centre of the Earth, in Cosmopoiesis"></a>
+<a href="docs/gallery.md"><img src="assets/gallery/cosmo-18-terrain-provenance.jpg" width="32%" alt="The Moon's ground near Hadley Rille coloured by where its heights come from, in Cosmopoiesis"></a>
 </p>
 <p align="center">
 <a href="docs/gallery.md"><img src="assets/gallery/cosmo-06-tycho.jpg" width="32%" alt="The crater Tycho by day, its address answered in every frame and the observer's environment on the Moon, in Cosmopoiesis"></a>
-<a href="docs/gallery.md"><img src="assets/gallery/cosmo-07-address-from-fuji.jpg" width="32%" alt="An address stepped from the summit of Fuji, answered in UTM, MGRS and the celestial frames, the camera looking back at the mountain, in Cosmopoiesis"></a>
-<a href="docs/gallery.md"><img src="assets/gallery/cosmo-08-loops-and-schedule.jpg" width="32%" alt="The holonomies of the catalogue's loops and a simulation of the scheduling policies, in Cosmopoiesis"></a>
+<a href="docs/gallery.md"><img src="assets/gallery/cosmo-12-field-cube.jpg" width="32%" alt="A cube above Reiner Gamma filled with the magnetic field's strength, placed in the world, in Cosmopoiesis"></a>
+<a href="docs/gallery.md"><img src="assets/gallery/cosmo-22-sea-temperature.jpg" width="32%" alt="The sea's temperature around Japan, the Kuroshio along the south coast, in Cosmopoiesis"></a>
 </p>
-<p align="center"><i>Cosmopoiesis: the Solar System as one world, from a crater's floor to the orbit of Pluto, on a console drawn as a precision instrument; its fields, the Earth's magnetic field and the Moon's crust, drawn in the world and read over a cube about any point; any point written in one line and answered in every frame; the catalogue's loops measuring how far its standards disagree; and instruments, virtual and physical, read on a schedule with deadlines, each reading marked by whether it was observed, modelled or assimilated.</i></p>
+<p align="center"><i>Cosmopoiesis: the Solar System as one world, from a crater's floor to the orbit of Pluto, on a console drawn as a precision instrument; its fields, the Earth's magnetic field, the Moon's crust and the Earth's interior, drawn in the world and read over a cube about any point; the ground saying where each of its heights comes from, the sea floor and the sea's temperature; the Earth beneath any place, to its centre, with the earthquakes of the sinking plates; any point written in one line and answered in every frame; and instruments, virtual and physical, each reading marked by whether it was observed, modelled or assimilated.</i></p>
 
 ## Quick Start
 

diff --git a/development/release-notes/2026-10-30.md b/development/release-notes/2026-10-30.md
@@ -1,6 +1,16 @@
 # Release Notes: 30 October 2026
 
-## 1. The Earth Beneath: CRUST1.0 over PREM, Sections along Geodesics
+## 1. Cosmopoiesis in the Gallery, and a Flight to Where One Already Looks
+
+In this update the gallery shows Cosmopoiesis in full, on its precision console: twenty-two pictures in four parts.
+
+- **One world, its addresses and its instruments.** The console over the Earth and the instant in its scales, the Solar System, Saturn, Mars, Tycho, an address stepped from Fuji's summit, the catalogue's loops and the schedule.
+- **Fields.** The Earth's field lines, the Moon's crustal field and its radial part, and fields read over a cube about a point: the Moon's field over Reiner Gamma, the air over Fuji, and the speed of P waves in the Earth beneath the sea east of Sendai.
+- **The ground, the sea and what lies beneath.** Where the Moon's heights come from near Hadley Rille, from LOLA's laser tracks to synthetic detail; the Pacific floor off Japan with the water taken away; the sea's temperature and the Kuroshio; and the Earth beneath Japan and the Andes, from the trench to the mantle at true scale.
+- **Bodies that move.** Satellites, and the rover's survey of Reiner Gamma with what its mission came to know.
+- **Better.** A flight to the place the camera already looks at, such as an address typed for the point in view, no longer leaves the globe's camera undefined and the world undrawn. The arc of a flight is now taken as atan2 of the cross and dot products, exact for small arcs and defined for none.
+
+## 2. The Earth Beneath: CRUST1.0 over PREM, Sections along Geodesics
 
 In this update the infrastructure can say what lies beneath any place on the Earth, from the ground or the sea floor to the centre ([ADR 0055](../decisions/0055-the-earth-beneath.md)).
 

diff --git a/development/release-notes/README.md b/development/release-notes/README.md
@@ -13,7 +13,7 @@ A running record, for readers, of what each commit made possible or better, in t
 
 | Date | Commits |
 |---|---|
-| [2026-10-30](2026-10-30.md) | The Earth beneath: CRUST1.0 over PREM, sections along geodesics; Cosmopoiesis's world beneath and its precision console; the gallery |
+| [2026-10-30](2026-10-30.md) | Cosmopoiesis in the gallery, and a flight to where one already looks; the Earth beneath: CRUST1.0 over PREM, sections along geodesics; Cosmopoiesis's world beneath and its precision console |
 | [2026-10-29](2026-10-29.md) | Fields and their visual expression; bodies, their dynamics, and what is known; Cosmopoiesis: the world first, and the field about a point; group grammars for genomes, and a survey of advanced genome analysis; The Chemistry Workbench; Fields known in part; the planetary-science domain |
 | [2026-10-28](2026-10-28.md) | Instruments and their acquisition; the spacetime of the Earth and the Moon |
 | [2026-10-24](2026-10-24.md) | The Economy Atlas: your data, plug-ins and a ledger in gold; the Genome Workbench; value in space and time: the economics domain and the Economy Atlas; genomes: the genomics and evolution domains and the Genome Atlas; the history as a field theory; the history domain and the History Complex |
